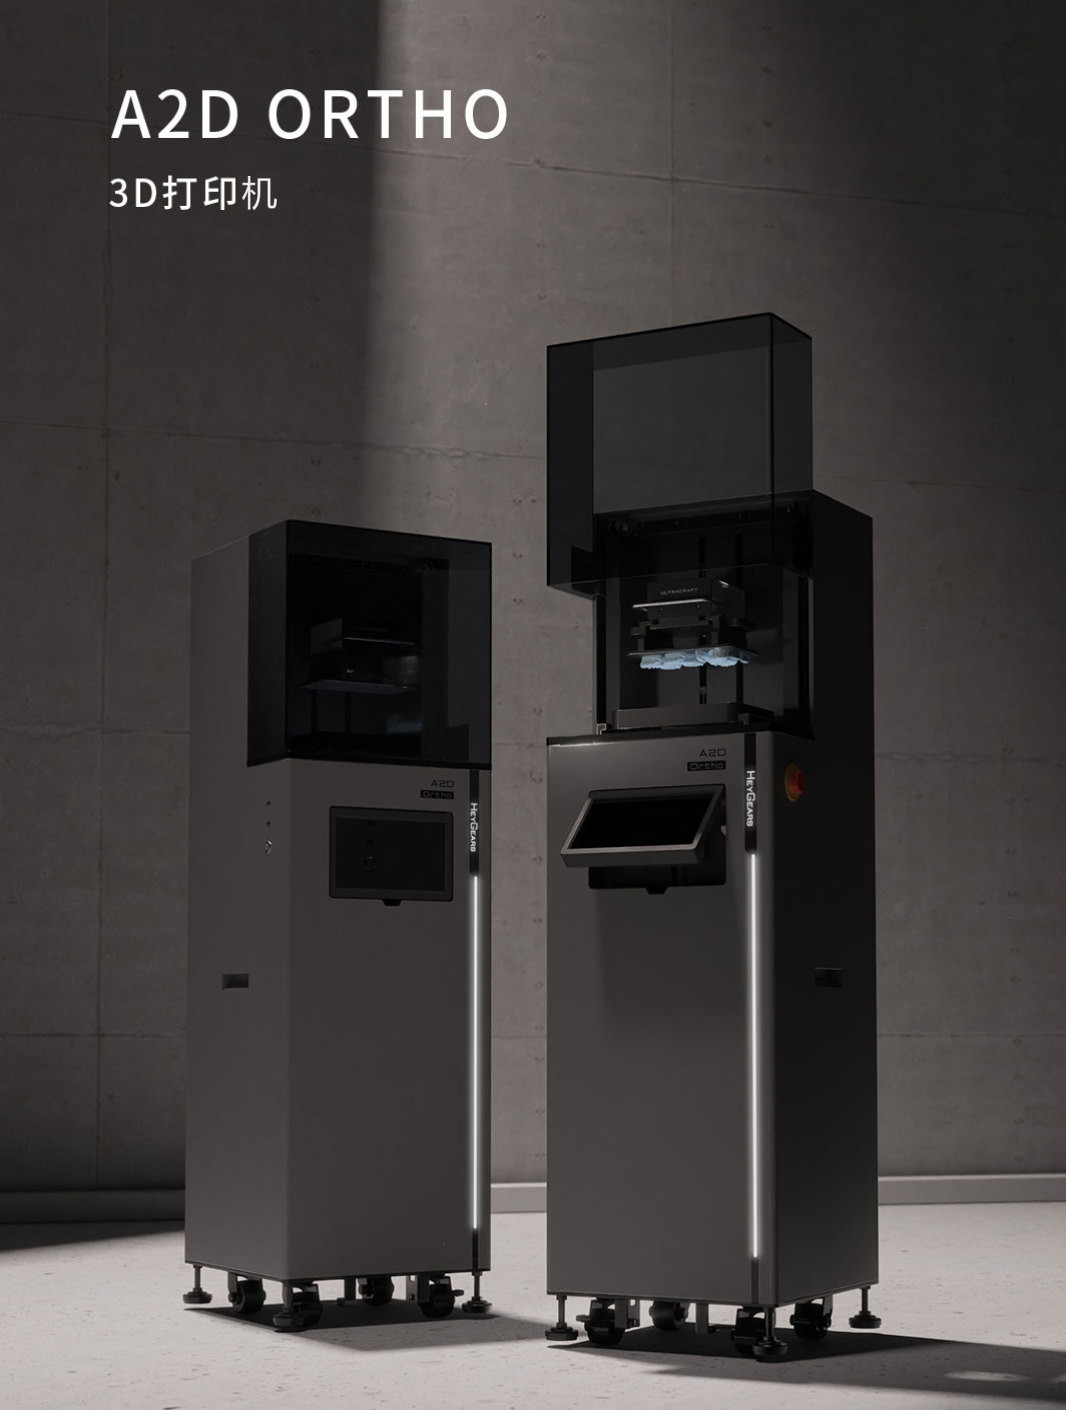
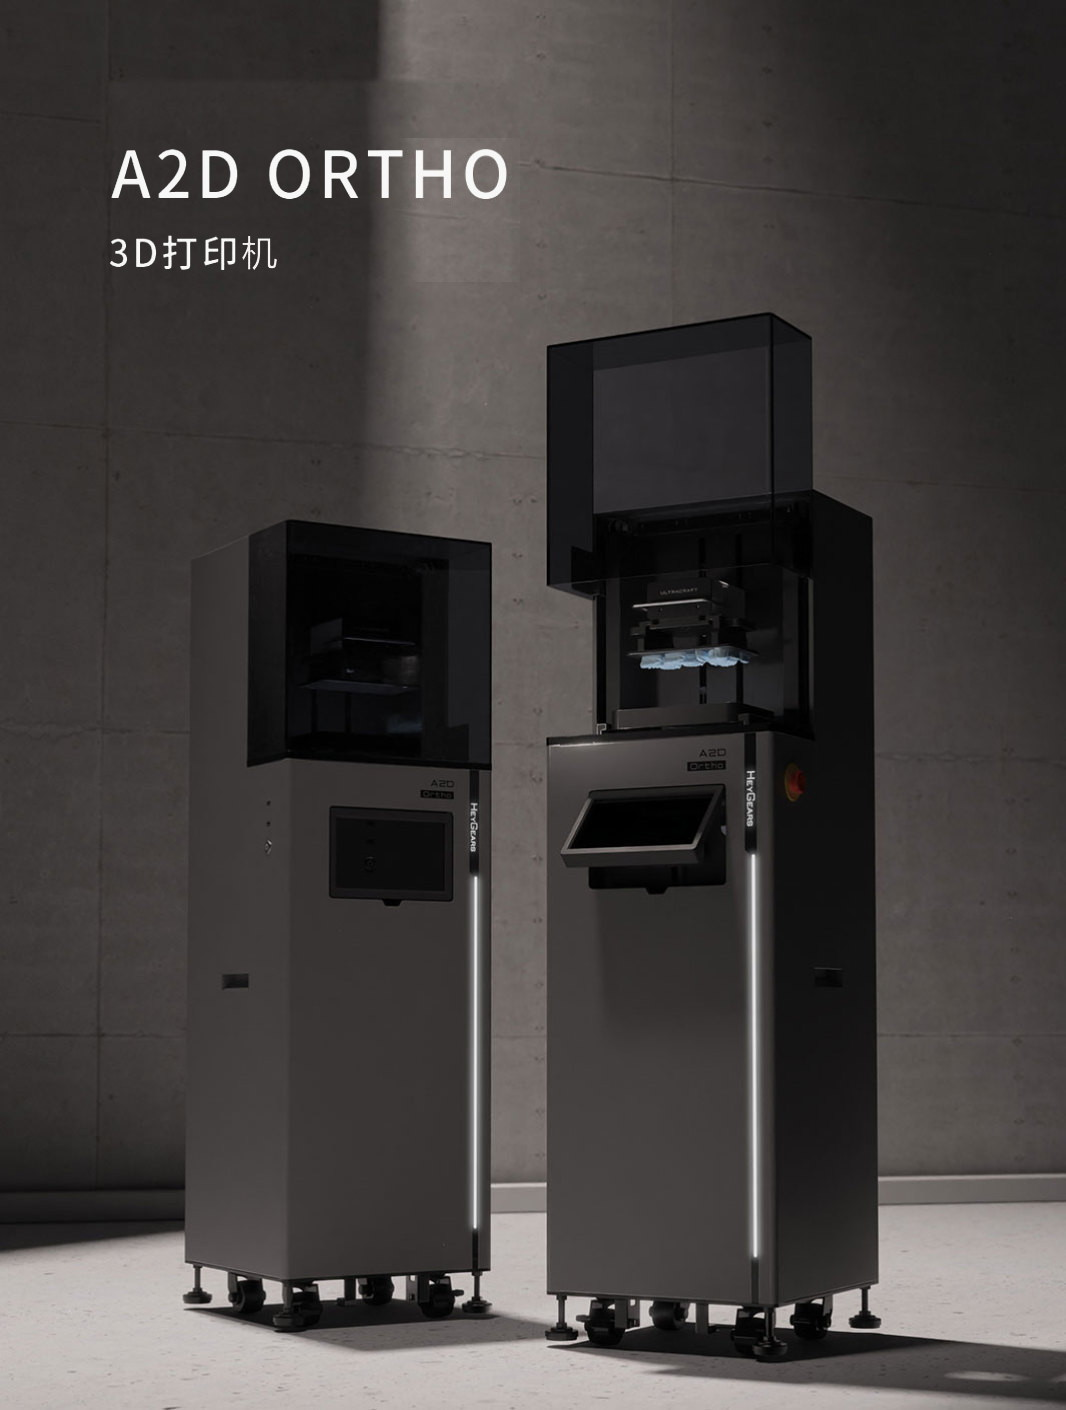
tweak: 黑灯工厂卡片改竖版 3:4 整机完整入画，图内标题下移 60px

Changed region(s): [[0.0929, 0.0624, 0.4953, 0.1872]]

diff --git a/styles.css b/styles.css
@@ -1240,7 +1240,8 @@ a.product-card { cursor: pointer; }
   margin-top: 24px;
 }
 .tech-feature-media {
-  aspect-ratio: 1;
+  /* 竖版 3:4：与原图比例一致，整机完整入画（cover 仅裁 0.8% 宽度） */
+  aspect-ratio: 3 / 4;
   background: var(--bg-dark-2);
   border-radius: var(--r-lg);
   border: 1px solid var(--line-dark);
@@ -1253,8 +1254,7 @@ a.product-card { cursor: pointer; }
   width: 100%;
   height: 100%;
   object-fit: cover;
-  /* 竖图入方框：取景略偏上，保住图内「A2D ORTHO / 3D打印机」字样 */
-  object-position: center 20%;
+  object-position: center;
 }
 .tech-feature-tag {
   display: inline-block;
